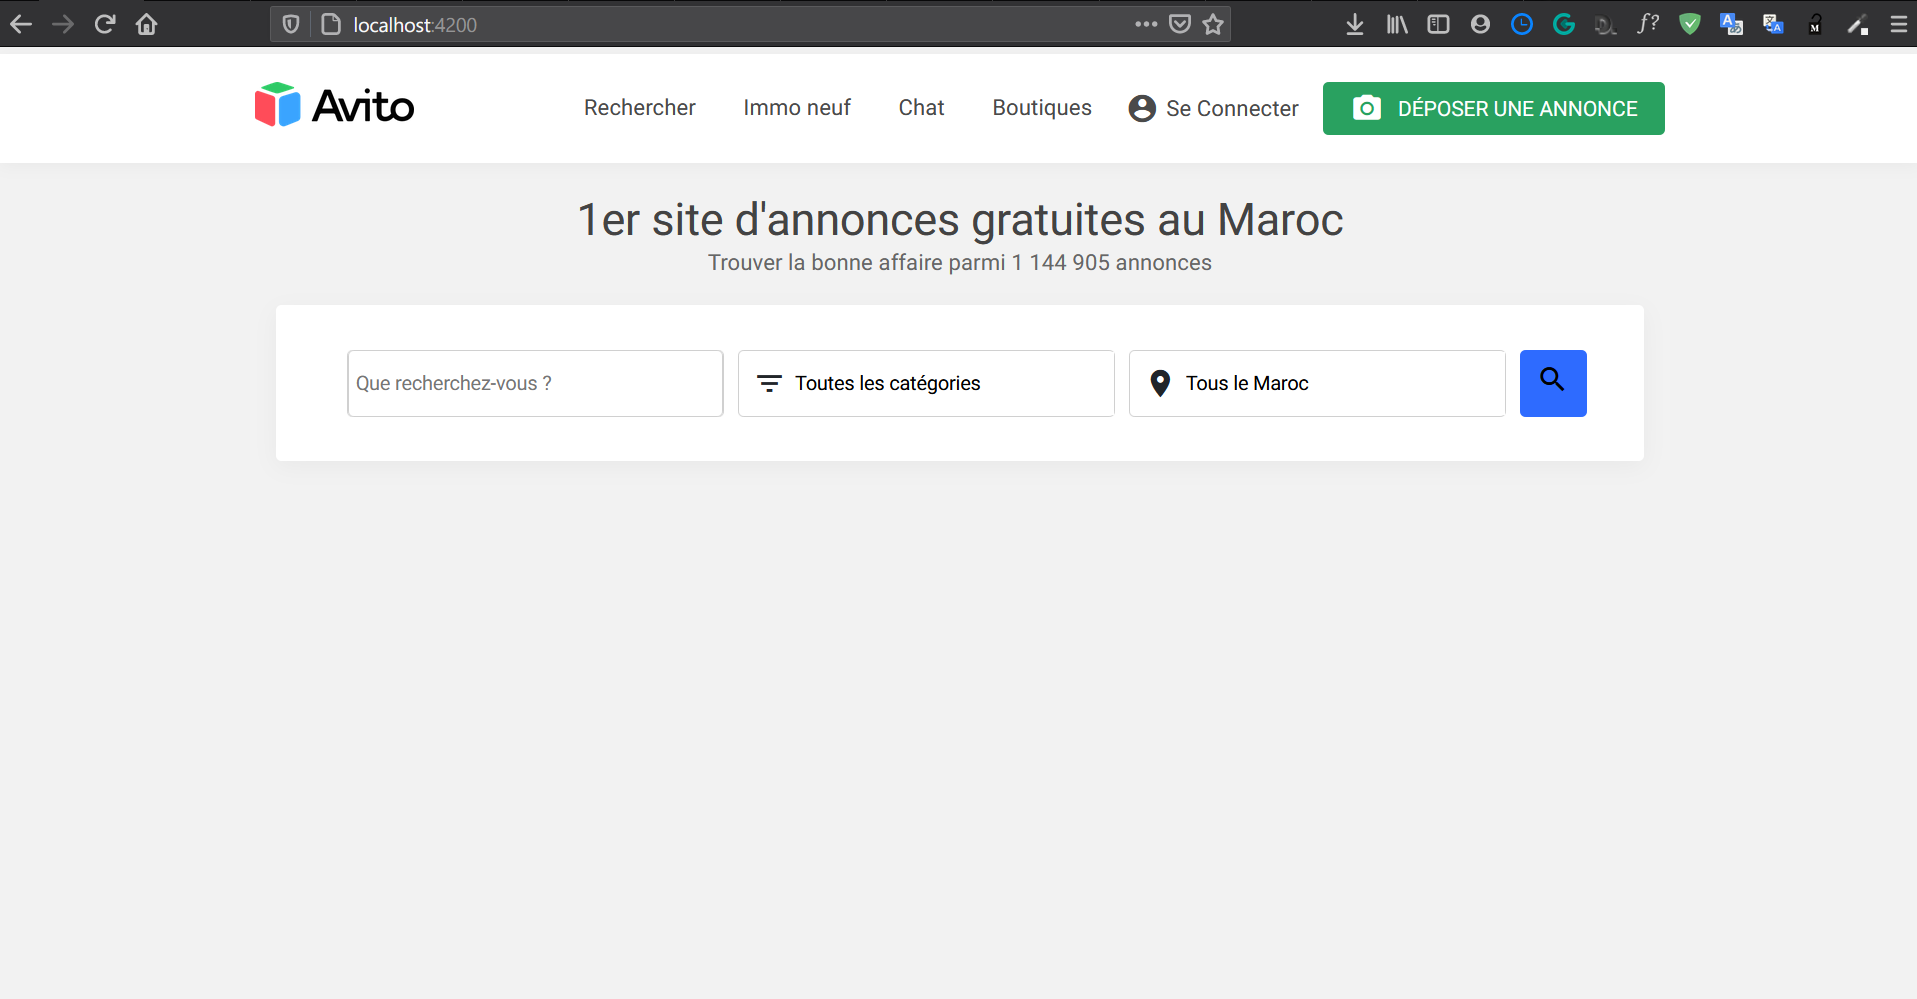
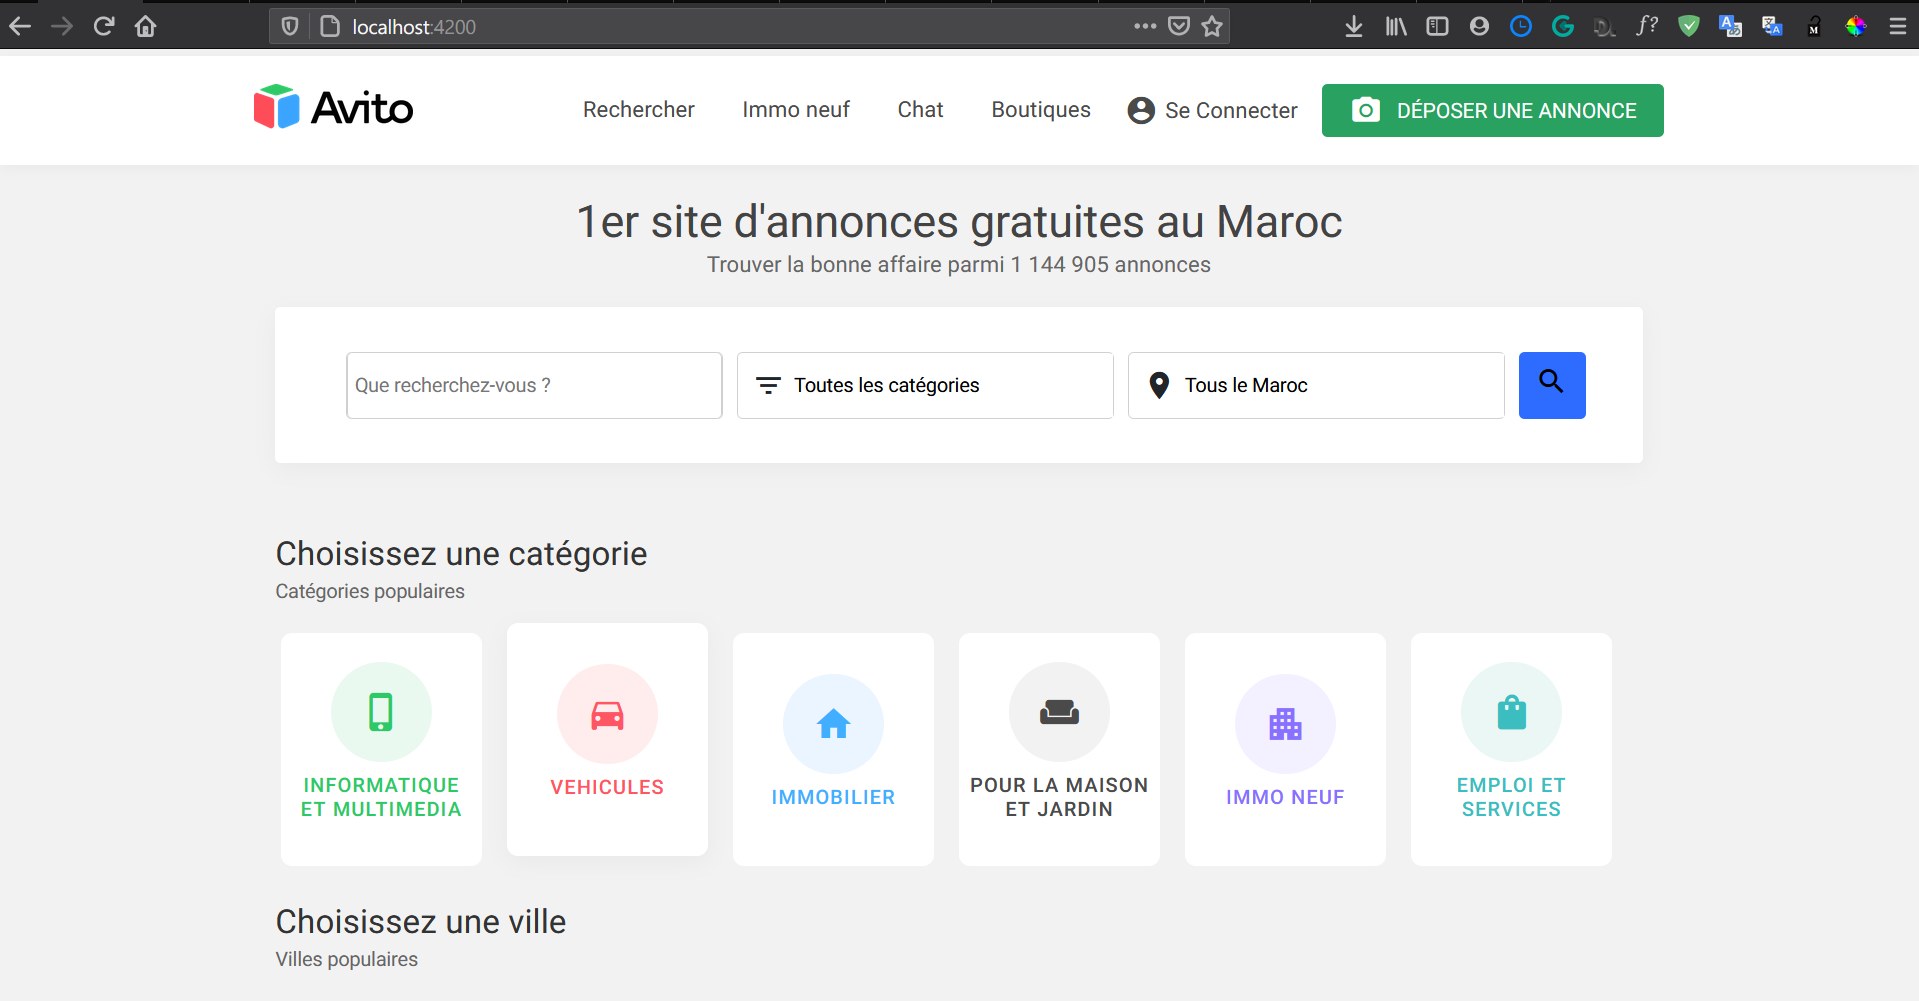
commit

diff --git a/src/app/app.component.html b/src/app/app.component.html
@@ -8,7 +8,63 @@
             <h4> Trouver la bonne affaire parmi 1 144 905 annonces </h4>
         </div>
     </div>
+    
     <app-search></app-search>
+    <div class="app__bodyCategory">
+        <p class="app__bigTite">Choisissez une catégorie</p>
+        <p class="app__subbigTitle">Catégories populaires</p>
+        <div class="app__categories">
+            <div class="app__category" >
+                <div class="app__categoryIcon" style="background-color: #EAF9EF;">
+                    <mat-icon style="color: #2EC966;">phone_iphone</mat-icon>
+                </div>
+                <p style="color: #2EC966;">INFORMATIQUE ET MULTIMEDIA</p>
+                
+            </div>
+            <div class="app__category">
+                <div class="app__categoryIcon" style="background-color: #FFEDEE;">
+                    <mat-icon style="color: #FF5664;">directions_car</mat-icon>
+                </div>
+                <p style="color: #FF5664;">VEHICULES</p>
+            </div>
+            <div class="app__category">
+                <div class="app__categoryIcon" style="background-color: #EBF5FF;">
+                    <mat-icon style="color: #42AEFF;">home</mat-icon>
+                </div>
+                <p style="color: #42AEFF;">IMMOBILIER</p>
+            </div>
+            <div class="app__category">
+                <div class="app__categoryIcon" style="background-color: #F2F2F2;">
+                    <mat-icon style="color: #4A4A4A;">weekend</mat-icon>
+                </div>
+                <p style="color: #4A4A4A;">POUR LA MAISON ET JARDIN</p>
+            </div>
+            <div class="app__category">
+                <div class="app__categoryIcon" style="background-color: #F3F1FF;">
+                    <mat-icon style="color: #8871FF;">apartment</mat-icon>
+                </div>
+                <p style="color: #8871FF;">IMMO NEUF</p>
+            </div>
+            <div class="app__category">
+                <div class="app__categoryIcon" style="background-color: #EAF7F5;">
+                    <mat-icon style="color: #3CBDBF;">shopping_bag</mat-icon>
+                </div>
+                <p style="color: #3CBDBF;">EMPLOI ET SERVICES</p>
+            </div>
+        </div>
+        <div class="app__bodyVille">
+            <p class="app__bigTite">Choisissez une ville</p>
+            <p class="app__subbigTitle">Villes populaires</p>
+
+        </div>
+
+    </div>
+   
+
+    
+    
+    
+    
 
     
 </div>

diff --git a/src/app/app.component.css b/src/app/app.component.css
@@ -40,3 +40,97 @@ app-search {
     display: flex;
     justify-content: center;
 }
+
+
+
+.app__bigTite{
+    width: 980px;
+    text-align: start;
+    font-size: 24px;
+    font-weight: normal;
+    font-stretch: normal;
+    font-style: normal;
+    line-height: normal;
+    letter-spacing: normal;
+    color: #333333;
+    margin-bottom: 4px;
+}
+
+.app__subbigTitle{
+    width: 980px;
+    text-align: start;
+font-size: 14px;
+font-weight: normal;
+font-stretch: normal;
+font-style: normal;
+line-height: normal;
+letter-spacing: normal;
+color: #666666;
+
+}
+
+.app__bodyCategory {
+    
+    display: flex;
+    align-items: center;
+    justify-content: center;
+    flex-direction: column;
+    margin-top: 50px;
+}
+
+
+.app__categories {
+    display: flex;
+    margin-top: 10px;    
+
+}
+.app__category {
+    display: flex;
+    flex-direction: column;
+    align-items: center;
+    justify-content: center;
+    width: 144px !important;
+    height: 167px;
+    border-radius: 8px !important;
+    background-color: #ffffff;
+    margin-right: 18px;
+    padding: 0px 6px;
+}
+
+.app__category:hover {
+    box-shadow: 0 4px 16px 0 rgba(0, 0, 0, 0.04);
+    -moz-transform: translateY(-7px);
+    -moz-transition: 0.2s ease-in-out;
+    cursor: pointer;
+}
+
+.app__category > p {
+    text-transform: uppercase;
+font-size: 14px;
+font-weight: 500;
+font-stretch: normal;
+font-style: normal;
+line-height: normal;
+letter-spacing: 1px;
+text-align: center;
+margin-top: 8px;
+
+}
+
+.app__categoryIcon {
+    
+    /* display: flex;
+    justify-content: center; */
+    width: 72px;
+    height: 72px;   
+    border-radius: 999px;
+    /* text-align: center; */
+}
+mat-icon {
+    margin: 21px;
+    font-size: 30px;
+}
+
+.app__bodyVille {
+    margin-top: 25px;
+}
